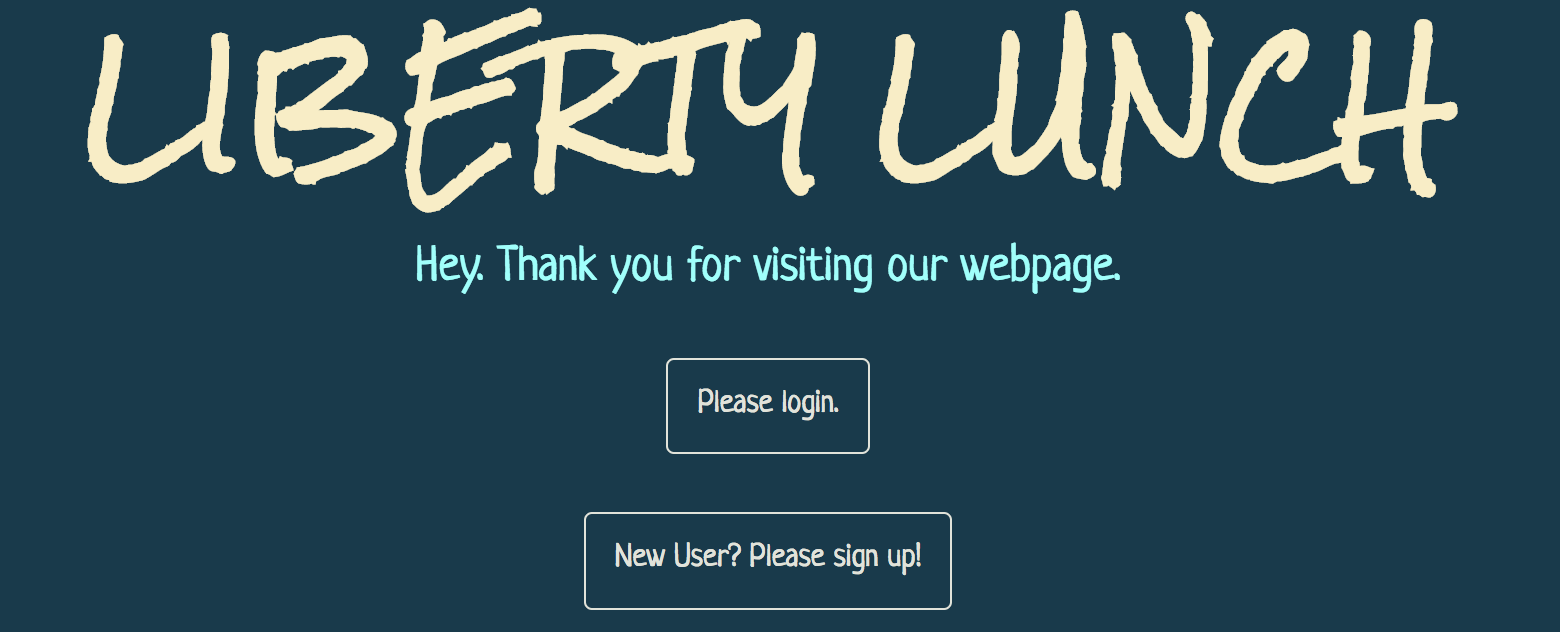
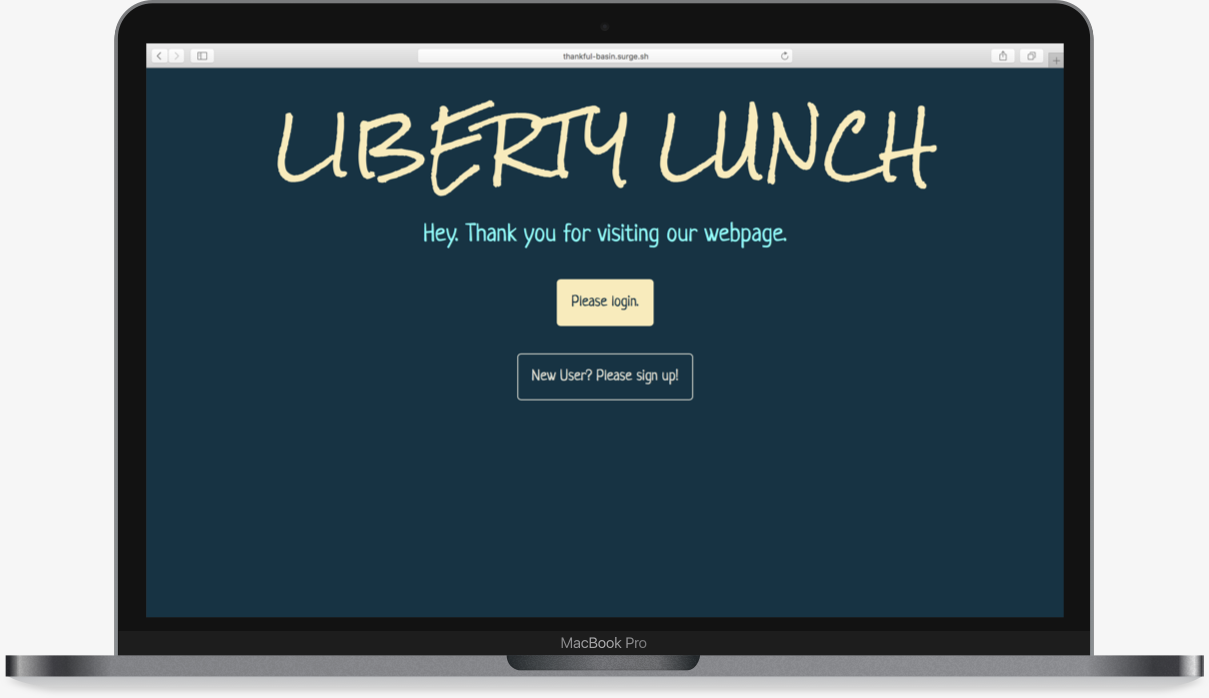
Add bring the band screenshot to MacBook screen

diff --git a/index.html b/index.html
@@ -89,7 +89,7 @@
     <div class="major-section">
       <h1 class="major-heading ">PREVIOUS WORK</h1>
       <h2 class="project-title horizontal-line">Bring the Band</h2>
-      <img src="Bring_the_Band.png" width="500" alt="">
+      <img src="bring_the_band.png" alt="Liberty Lunch" srcset="bring_the_band@2x.png" class="macbook">
       <p>Bring the Band is an app with a user signup/login component. Once logged in, users can search and vote for bands. When the user votes for a band, the data is saved in a Backendless table. This app uses the Spotify API for band data.</p>
       <a href="http://thankful-basin.surge.sh/"  target="_blank" class="live-version">live version</a>
       <a href="https://github.com/devonmoubry/bring-the-band"  target="_blank" aria-label="link to Devon Moubry GitHub" class="repo-link">view in <i class="fa fa-github fa-2x repo" aria-hidden="true"></i></a>
